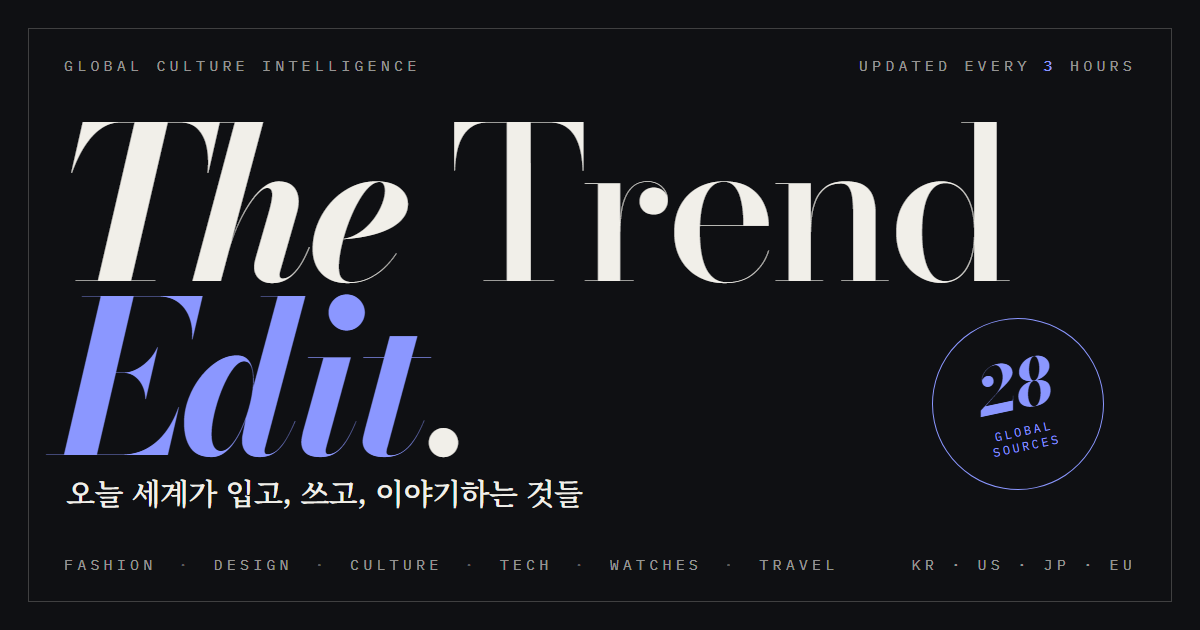
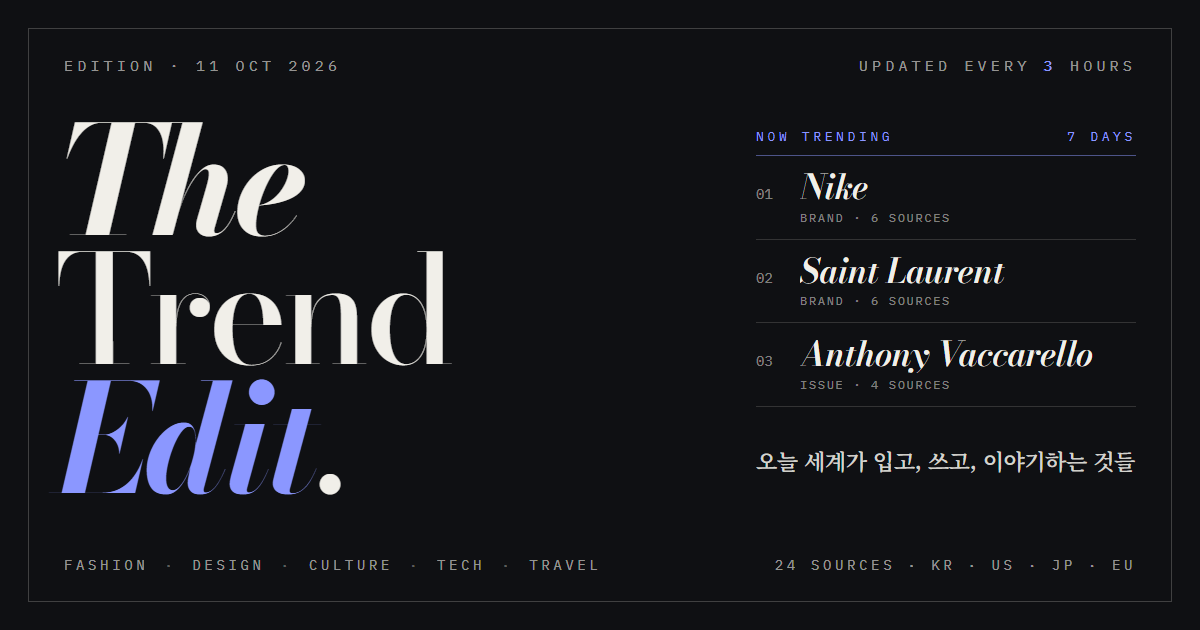
공유 썸네일에 실시간 TOP 3 이슈 반영, 수집 재시도 추가
- og.html이 data.js를 읽어 날짜·TOP 3 이슈·수집 매체 수 표시
- Actions에서 수집할 때마다 썸네일 재생성, 캐시 방지 버전 번호
- RSS 요청 대기 40초 + 1회 재시도 (해외 서버에서 국내 매체 시간 초과 대응)

diff --git a/assets/og.html b/assets/og.html
@@ -4,32 +4,62 @@
 <meta charset="utf-8">
 <link rel="stylesheet" href="https://fonts.googleapis.com/css2?family=Bodoni+Moda:ital,opsz,wght@0,6..96,400..800;1,6..96,400..800&family=IBM+Plex+Mono:wght@400;500&family=Noto+Serif+KR:wght@600&display=swap">
 <style>
-/* 공유 썸네일(OG) 원본: 1200×630 으로 캡처해서 og.png 로 저장 */
+/* 공유 썸네일(OG) 원본: 1200×630 으로 캡처해서 og.png 로 저장.
+   ../data/data.js 를 읽어 그 시점의 TOP 3 이슈·날짜·수집 매체 수를 채운다. (수집할 때마다 재생성) */
 html, body { margin: 0; width: 1200px; height: 630px; overflow: hidden; }
 body { background: #0f1013; color: #f1efe9; font-family: "IBM Plex Mono", monospace; position: relative; }
 .frame { position: absolute; inset: 28px; border: 1px solid rgba(241,239,233,.22); }
-.top, .bottom { position: absolute; left: 64px; right: 64px; display: flex; justify-content: space-between; font-size: 15px; letter-spacing: .28em; text-transform: uppercase; color: rgba(241,239,233,.62); }
-.top { top: 56px; }
-.bottom { bottom: 56px; align-items: flex-end; }
-.issue b { color: #8b97ff; font-weight: 500; }
-.title { position: absolute; left: 56px; top: 118px; font-family: "Bodoni Moda", serif; font-size: 212px; line-height: .82; letter-spacing: -.035em; font-variation-settings: "opsz" 96; }
+.top { position: absolute; left: 64px; right: 64px; top: 56px; display: flex; justify-content: space-between; font-size: 15px; letter-spacing: .28em; text-transform: uppercase; color: rgba(241,239,233,.62); }
+.top b { color: #8b97ff; font-weight: 500; }
+.title { position: absolute; left: 56px; top: 116px; font-family: "Bodoni Moda", serif; font-size: 150px; line-height: .86; letter-spacing: -.035em; font-variation-settings: "opsz" 96; }
 .title .i { font-style: italic; font-weight: 700; }
 .title .r { font-weight: 500; }
 .title .accent { color: #8b97ff; font-style: italic; font-weight: 700; }
-.ko { position: absolute; left: 66px; top: 470px; font-family: "Noto Serif KR", serif; font-size: 30px; letter-spacing: -.02em; color: #f1efe9; }
-.cats { display: flex; gap: 22px; }
-.cats span + span::before { content: "·"; margin-right: 22px; color: rgba(241,239,233,.35); }
-.stamp { position: absolute; right: 96px; top: 318px; width: 170px; height: 170px; border-radius: 50%; border: 1px solid #8b97ff; display: flex; flex-direction: column; align-items: center; justify-content: center; color: #8b97ff; text-align: center; transform: rotate(-12deg); }
-.stamp .n { font-family: "Bodoni Moda", serif; font-style: italic; font-weight: 700; font-size: 64px; line-height: 1; letter-spacing: -.02em; }
-.stamp .t { font-size: 12px; letter-spacing: .22em; margin-top: 6px; }
+.ko { position: absolute; right: 64px; width: 380px; top: 444px; font-family: "Noto Serif KR", serif; font-size: 22px; line-height: 1.5; letter-spacing: -.02em; color: rgba(241,239,233,.88); }
+/* 지금 뜨는 이슈 */
+.now { position: absolute; right: 64px; top: 128px; width: 380px; }
+.now .label { font-size: 13px; letter-spacing: .28em; color: #8b97ff; text-transform: uppercase; border-bottom: 1px solid rgba(139,151,255,.5); padding-bottom: 10px; display: flex; justify-content: space-between; }
+.now ol { list-style: none; margin: 0; padding: 0; counter-reset: n; }
+.now li { display: grid; grid-template-columns: 44px 1fr; align-items: baseline; padding: 14px 0; border-bottom: 1px solid rgba(241,239,233,.16); }
+.now li::before { counter-increment: n; content: counter(n, decimal-leading-zero); font-size: 14px; color: rgba(241,239,233,.5); }
+.now li span { font-family: "Bodoni Moda", serif; font-style: italic; font-weight: 600; font-size: 34px; line-height: 1.05; letter-spacing: -.01em; overflow: hidden; text-overflow: ellipsis; white-space: nowrap; }
+.now li small { grid-column: 2; font-size: 12px; letter-spacing: .14em; color: rgba(241,239,233,.5); margin-top: 4px; text-transform: uppercase; }
+.bottom { position: absolute; left: 64px; right: 64px; bottom: 56px; display: flex; justify-content: space-between; font-size: 14px; letter-spacing: .26em; text-transform: uppercase; color: rgba(241,239,233,.62); }
+.cats span + span::before { content: "·"; margin: 0 16px; color: rgba(241,239,233,.35); }
 </style>
 </head>
 <body>
   <div class="frame"></div>
-  <div class="top"><span>Global Culture Intelligence</span><span class="issue">Updated every <b>3</b> hours</span></div>
-  <div class="title"><span class="i">The</span> <span class="r">Trend</span><br><span class="accent">Edit</span><span class="r">.</span></div>
-  <div class="stamp"><div class="n">28</div><div class="t">GLOBAL<br>SOURCES</div></div>
+  <div class="top"><span id="date">Global Culture Intelligence</span><span>Updated every <b>3</b> hours</span></div>
+  <div class="title"><span class="i">The</span><br><span class="r">Trend</span><br><span class="accent">Edit</span><span class="r">.</span></div>
+  <div class="now"><div class="label"><span>Now Trending</span><span id="win">7 Days</span></div><ol id="top"></ol></div>
   <div class="ko">오늘 세계가 입고, 쓰고, 이야기하는 것들</div>
-  <div class="bottom"><div class="cats"><span>Fashion</span><span>Design</span><span>Culture</span><span>Tech</span><span>Watches</span><span>Travel</span></div><span>KR · US · JP · EU</span></div>
+  <div class="bottom"><div class="cats"><span>Fashion</span><span>Design</span><span>Culture</span><span>Tech</span><span>Travel</span></div><span id="src">KR · US · JP · EU</span></div>
+<script src="../data/data.js"></script>
+<script>
+(function () {
+  var D = window.TREND_DATA;
+  var list = document.getElementById("top");
+  var KIND = { brand: "Brand", issue: "Issue", topic: "Category" };
+  var rows = D && D.trends && D.trends.week ? D.trends.week.slice(0, 3) : [];
+  if (!rows.length) {
+    // 데이터가 없을 때의 기본 문구
+    rows = [{ name: "Fashion", kind: "topic", sources: 0 }, { name: "Design", kind: "topic", sources: 0 }, { name: "Culture", kind: "topic", sources: 0 }];
+  }
+  rows.forEach(function (r) {
+    var li = document.createElement("li");
+    var s = document.createElement("span"); s.textContent = r.name;
+    var m = document.createElement("small"); m.textContent = (KIND[r.kind] || "") + (r.sources ? " · " + r.sources + " sources" : "");
+    li.appendChild(s); li.appendChild(m); list.appendChild(li);
+  });
+  if (D) {
+    var d = new Date(D.generated_at);
+    var fmt = d.toLocaleDateString("en-GB", { timeZone: "Asia/Seoul", day: "2-digit", month: "short", year: "numeric" }).toUpperCase();
+    document.getElementById("date").textContent = "Edition · " + fmt;
+    var live = D.sources.filter(function (s) { return s.status && s.status.ok; }).length;
+    document.getElementById("src").textContent = live + " sources · KR · US · JP · EU";
+  }
+})();
+</script>
 </body>
 </html>

diff --git a/collect.py b/collect.py
@@ -60,10 +60,19 @@ NS = {
 # ─────────────────────────────────────────────────────────────
 # 1. 수집
 # ─────────────────────────────────────────────────────────────
-def fetch(url, timeout=25):
+def fetch(url, timeout=40, retries=2):
+    """해외 서버(GitHub Actions)에서 국내 매체는 응답이 느릴 수 있어 대기 시간을 넉넉히 두고 1회 재시도."""
     req = urllib.request.Request(url, headers={"User-Agent": USER_AGENT, "Accept": "application/rss+xml, application/xml, text/xml, */*"})
-    with urllib.request.urlopen(req, timeout=timeout) as res:
-        return res.read()
+    for attempt in range(retries):
+        try:
+            with urllib.request.urlopen(req, timeout=timeout) as res:
+                return res.read()
+        except urllib.error.HTTPError:
+            raise  # 403 등 차단은 재시도해도 같으므로 바로 실패 처리
+        except Exception:
+            if attempt == retries - 1:
+                raise
+            time.sleep(3)
 
 
 def strip_html(text):
